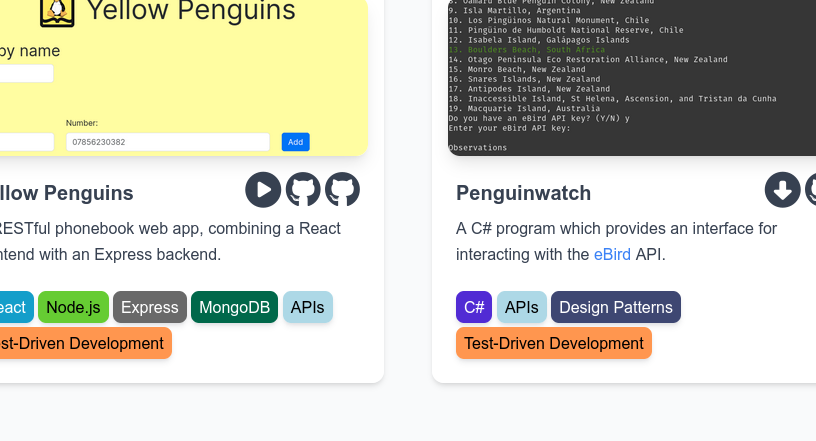
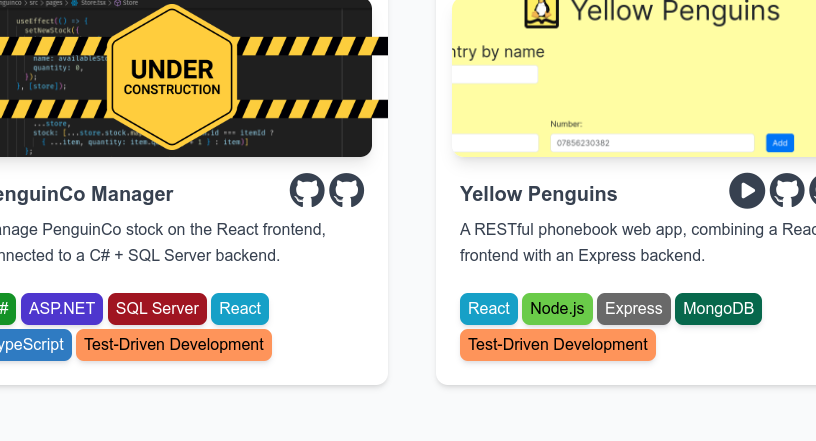
Sync with portfolio-design.

diff --git a/index.html b/index.html
@@ -33,6 +33,61 @@
         <div id="cards" class="font-content grid md:grid-cols-2 2xl:grid-cols-4">
           <div class="card min-w-screen max-w-96 md:flex md:mx-6 2xl:mb-20">
             <div class="flex flex-col mt-6 text-gray-700 bg-white shadow-md bg-clip-border rounded-xl md:flex-1">
+              <div class="image-under-construction">
+                <div 
+                  class="mx-4 mt-4 overflow-hidden text-gray-700 bg-white shadow-lg bg-clip-border rounded-xl h-40">
+                  <a href="https://github.com/Katnippy/penguinco-backend">
+                    <img src="images/penguinco.png" class="hover:opacity-80"
+                      alt="A cropped screenshot of the PenguinCo Manager 
+                      frontend source code in Visual Studio Code, showing a 
+                      React useEffect() hook which syncs the the local and 
+                      global Redux state and two functions to increment or 
+                      decrement stock and then dispatch the state to the Redux 
+                      store."/>
+                  </a>
+                </div>
+                <a class="under-construction" href="https://github.com/Katnippy/penguinco-backend">
+                  <img src="images/under-construction.png" 
+                  class="hover:opacity-80" 
+                  alt="Two parallel yellow and black-striped tape barriers 
+                  run underneath a centred yellow hexagonal 
+                  'Under Construction' sign with black text and a black 
+                  accent."/>
+                </a>
+              </div>
+              <div class="p-6">
+                <div class="flex justify-between">
+                  <a href="https://github.com/Katnippy/penguinco-backend">
+                    <h5 class="block mb-2 text-xl antialiased font-semibold leading-snug tracking-normal text-blue-gray-900 hover:underline">
+                      PenguinCo Manager
+                    </h5>
+                  </a>
+                  <div class="mt-[-8px]">
+                    <a href="https://github.com/Katnippy/penguinco-frontend">
+                      <i class="fa-brands fa-github text-4xl hover:opacity-80"></i>
+                    </a>
+                    <a href="https://github.com/Katnippy/penguinco-backend">
+                      <i class="fa-brands fa-github text-4xl hover:opacity-80"></i>
+                    </a>
+                  </div>
+                </div>
+                <p class="block text-base antialiased font-light leading-relaxed text-inherit">
+                  Manage PenguinCo stock on the React frontend, connected to a 
+                  C# + SQL Server backend.
+                </p>
+              </div>
+              <div class="p-6 pt-0">
+                <button class="bg-[#05930b] text-white cursor-default rounded-lg shadow-md shadow-gray-900/10 py-1 px-2">C#</button>
+                <button class="bg-[#512bd4] text-white cursor-default rounded-lg shadow-md shadow-gray-900/10 py-1 px-2">ASP.NET</button>
+                <button class="bg-[#a1191b] text-white cursor-default rounded-lg shadow-md shadow-gray-900/10 py-1 px-2">SQL Server</button>
+                <button class="bg-[#149eca] text-white cursor-default rounded-lg shadow-md shadow-gray-900/10 py-1 px-2">React</button>
+                <button class="bg-[#3178c6] text-white cursor-default rounded-lg shadow-md shadow-gray-900/10 py-1 px-2">TypeScript</button>                
+                <button class="bg-[#ff964f] text-black cursor-default rounded-lg shadow-md shadow-gray-900/10 py-1 px-2 mt-1">Test-Driven Development</button>
+              </div>
+            </div>
+          </div>
+          <div class="card min-w-screen max-w-96 md:flex md:mx-6 2xl:mb-20">
+            <div class="flex flex-col mt-6 text-gray-700 bg-white shadow-md bg-clip-border rounded-xl md:flex-1">
               <div 
                 class="mx-4 mt-4 overflow-hidden text-gray-700 bg-white shadow-lg bg-clip-border rounded-xl h-40">
                 <a href="https://github.com/Katnippy/yellow-penguins-frontend">
@@ -75,49 +130,6 @@
                 <button class="bg-[#66cc33] text-black cursor-default rounded-lg shadow-md shadow-gray-900/10 py-1 px-2">Node.js</button>
                 <button class="bg-[dimgrey] text-white cursor-default rounded-lg shadow-md shadow-gray-900/10 py-1 px-2">Express</button>
                 <button class="bg-[#00684a] text-white cursor-default rounded-lg shadow-md shadow-gray-900/10 py-1 px-2">MongoDB</button>
-                <button class="bg-[lightblue] text-black cursor-default rounded-lg shadow-md shadow-gray-900/10 py-1 px-2">APIs</button>
-                <button class="bg-[#ff964f] text-black cursor-default rounded-lg shadow-md shadow-gray-900/10 py-1 px-2 mt-1">Test-Driven Development</button>
-              </div>
-            </div>
-          </div>
-          <div class="card min-w-screen max-w-96 md:flex md:mx-6 2xl:mb-20">
-            <div class="flex flex-col mt-6 text-gray-700 bg-white shadow-md bg-clip-border rounded-xl md:flex-1">
-              <div 
-                class="mx-4 mt-4 overflow-hidden text-gray-700 bg-white shadow-lg bg-clip-border rounded-xl h-40">
-                <a href="https://github.com/Katnippy/penguinwatch">
-                  <img src="images/penguinwatch.png"
-                    class="hover:opacity-80"
-                    alt="A cropped screenshot of the Penguinwatch program,
-                    showing that two groups of 220 and 1 penguins were observed
-                    within the vicinity of Boulders Beach in South Africa."/>
-                </a>
-              </div>
-              <div class="p-6">
-                <div class="flex justify-between">
-                  <a href="https://github.com/Katnippy/penguinwatch">
-                    <h5 class="block mb-2 text-xl antialiased font-semibold leading-snug tracking-normal text-blue-gray-900 hover:underline">
-                      Penguinwatch
-                    </h5>
-                  </a>
-                  <div class="mt-[-8px]">
-                    <a href="https://github.com/Katnippy/penguinwatch/releases">
-                      <i class="fa-solid fa-circle-down text-4xl hover:opacity-80"></i>
-                    </a>
-                    <a href="https://github.com/Katnippy/penguinwatch">
-                      <i class="fa-brands fa-github text-4xl hover:opacity-80"></i>
-                    </a>
-                  </div>
-                </div>
-                <p class="block text-base antialiased font-light leading-relaxed text-inherit">
-                  A C# program which provides an interface for interacting with 
-                  the <a href="https://ebird.org/home" class="font-medium text-blue-600 dark:text-blue-500 hover:underline">
-                  eBird</a> API.
-                </p>
-              </div>
-              <div class="p-6 pt-0">
-                <button class="bg-[#512bd4] text-white cursor-default rounded-lg shadow-md shadow-gray-900/10 py-1 px-2">C#</button>
-                <button class="bg-[lightblue] text-black cursor-default rounded-lg shadow-md shadow-gray-900/10 py-1 px-2">APIs</button>
-                <button class="bg-[#3e4772] text-white cursor-default rounded-lg shadow-md shadow-gray-900/10 py-1 px-2">Design Patterns</button>
                 <button class="bg-[#ff964f] text-black cursor-default rounded-lg shadow-md shadow-gray-900/10 py-1 px-2 mt-1">Test-Driven Development</button>
               </div>
             </div>
@@ -192,8 +204,8 @@
                   </div>
                 </div>
                 <p class="block text-base antialiased font-light leading-relaxed text-inherit">
-                  A responsive portfolio with projects hosted or available for 
-                  download, designed with Tailwind.
+                  A responsive portfolio with projects hosted on Render and 
+                  published on GitHub.
                 </p>
               </div>
               <div class="p-6 pt-0">
@@ -208,8 +220,8 @@
         </div>
         <div id="footer" class="font-content text-center text-lg mt-6 mb-2 2xl:absolute 2xl:bottom-0">
           Cards adapted from <a href="https://www.material-tailwind.com/docs/html/card" class="font-medium text-blue-600 dark:text-blue-500 hover:underline">
-          Material Tailwind
-          </a>
+          Material Tailwind</a>, 'Under Construction' image from <a href="https://pngtree.com/freepng/flat-under-construction-sign-background-design_8801136.html" class="font-medium text-blue-600 dark:text-blue-500 hover:underline">
+          Pngtree</a>
         </div>
       </div>
     </section>

diff --git a/output.css b/output.css
@@ -673,9 +673,19 @@ video {
   background-color: rgb(0 104 74 / var(--tw-bg-opacity));
 }
 
+.bg-\[\#05930b\] {
+  --tw-bg-opacity: 1;
+  background-color: rgb(5 147 11 / var(--tw-bg-opacity));
+}
+
 .bg-\[\#149eca\] {
   --tw-bg-opacity: 1;
   background-color: rgb(20 158 202 / var(--tw-bg-opacity));
+}
+
+.bg-\[\#3178c6\] {
+  --tw-bg-opacity: 1;
+  background-color: rgb(49 120 198 / var(--tw-bg-opacity));
 }
 
 .bg-\[\#35bef8\] {
@@ -686,11 +696,6 @@ video {
 .bg-\[\#3776ab\] {
   --tw-bg-opacity: 1;
   background-color: rgb(55 118 171 / var(--tw-bg-opacity));
-}
-
-.bg-\[\#3e4772\] {
-  --tw-bg-opacity: 1;
-  background-color: rgb(62 71 114 / var(--tw-bg-opacity));
 }
 
 .bg-\[\#46e3b6\] {
@@ -711,6 +716,11 @@ video {
 .bg-\[\#7b12f8\] {
   --tw-bg-opacity: 1;
   background-color: rgb(123 18 248 / var(--tw-bg-opacity));
+}
+
+.bg-\[\#a1191b\] {
+  --tw-bg-opacity: 1;
+  background-color: rgb(161 25 27 / var(--tw-bg-opacity));
 }
 
 .bg-\[\#f06529\] {
@@ -900,6 +910,17 @@ video {
 .shadow-gray-900\/10 {
   --tw-shadow-color: rgb(17 24 39 / 0.1);
   --tw-shadow: var(--tw-shadow-colored);
+}
+
+.image-under-construction {
+  position: relative;
+  display: flex;
+  align-items: center;
+}
+
+.under-construction {
+  position: absolute;
+  margin-top: 16px;
 }
 
 .hover\:underline:hover {
